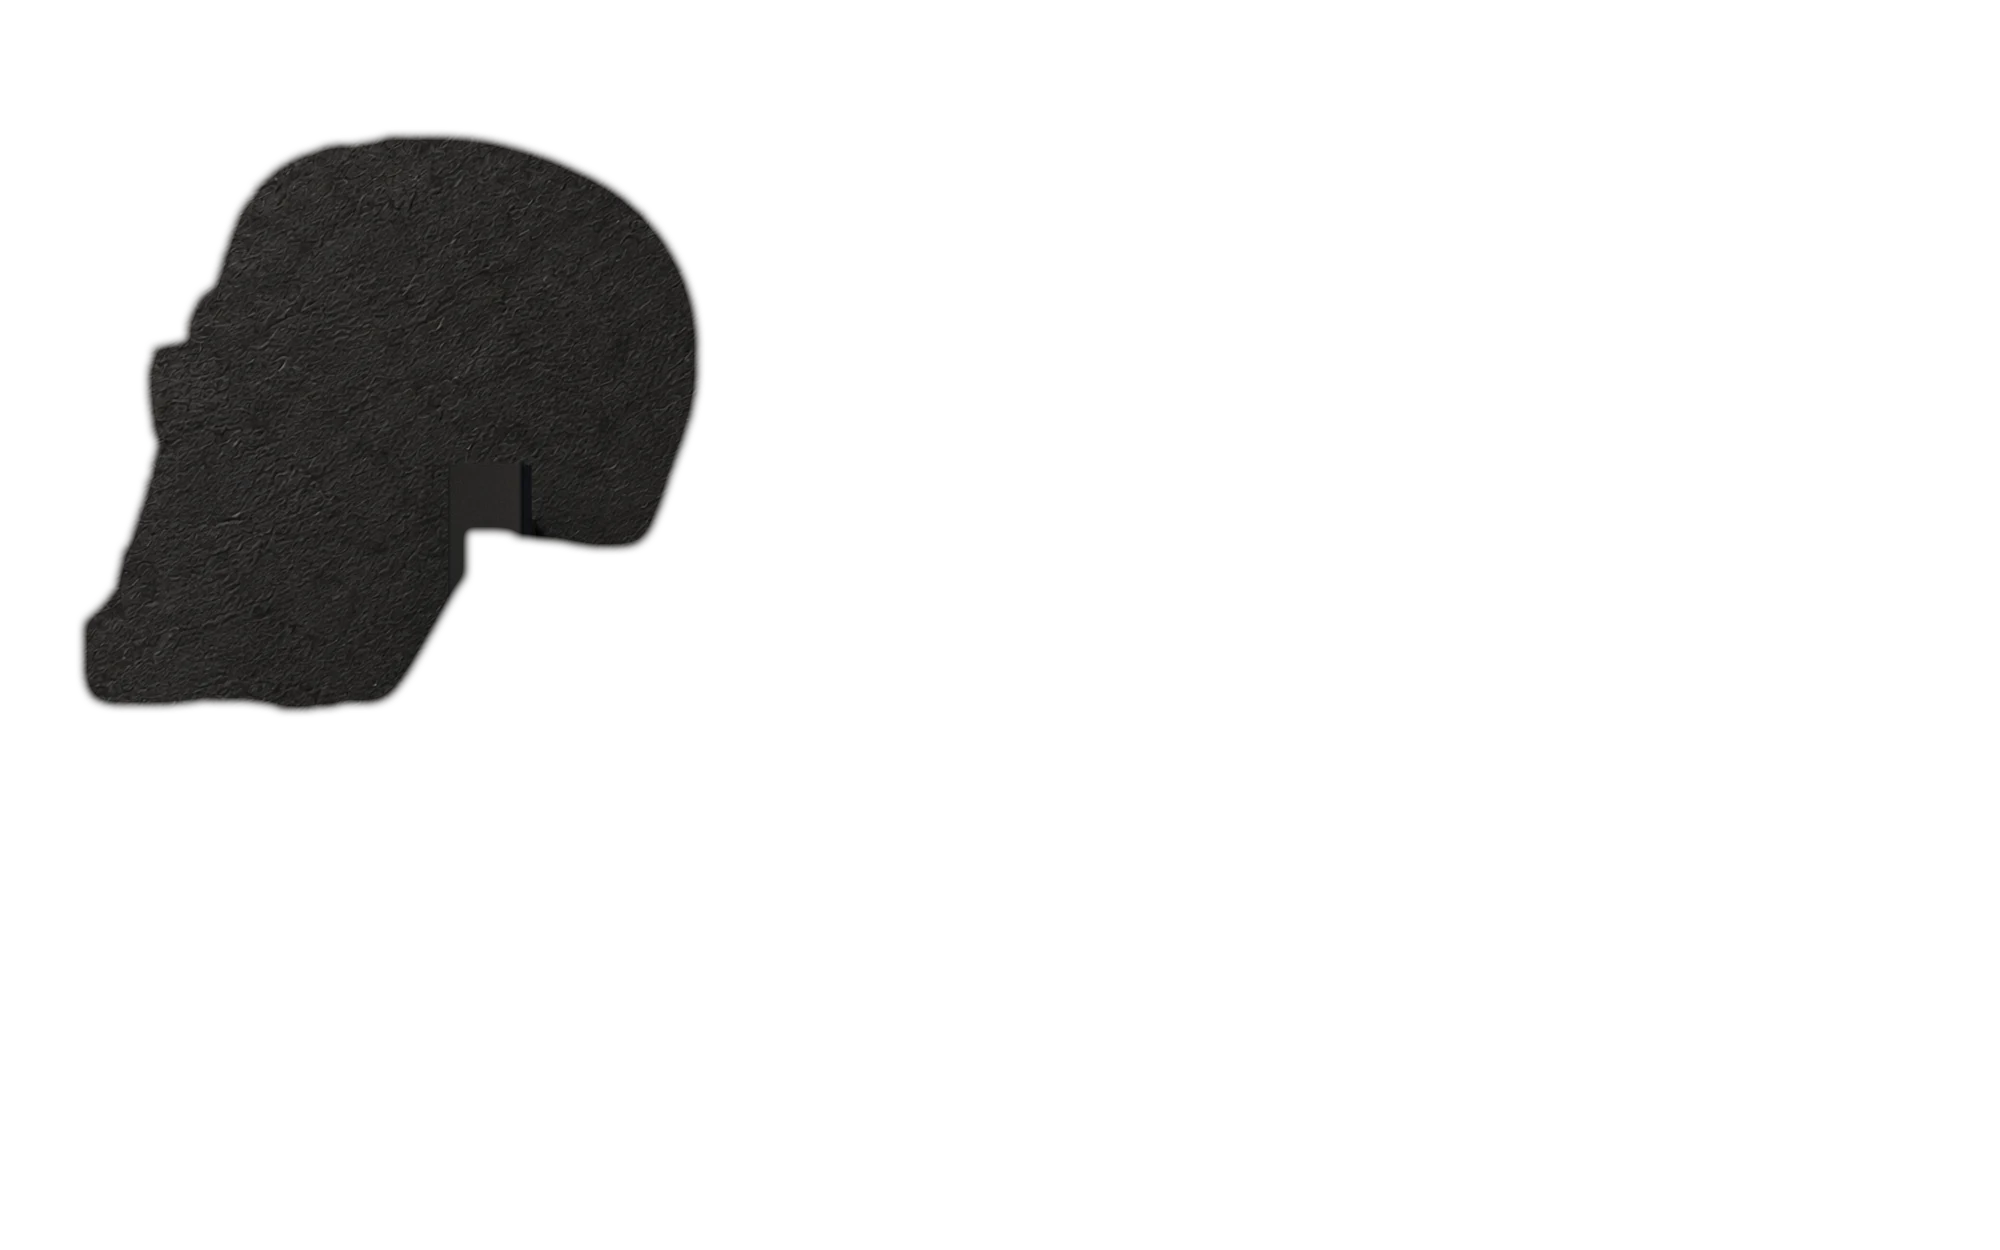
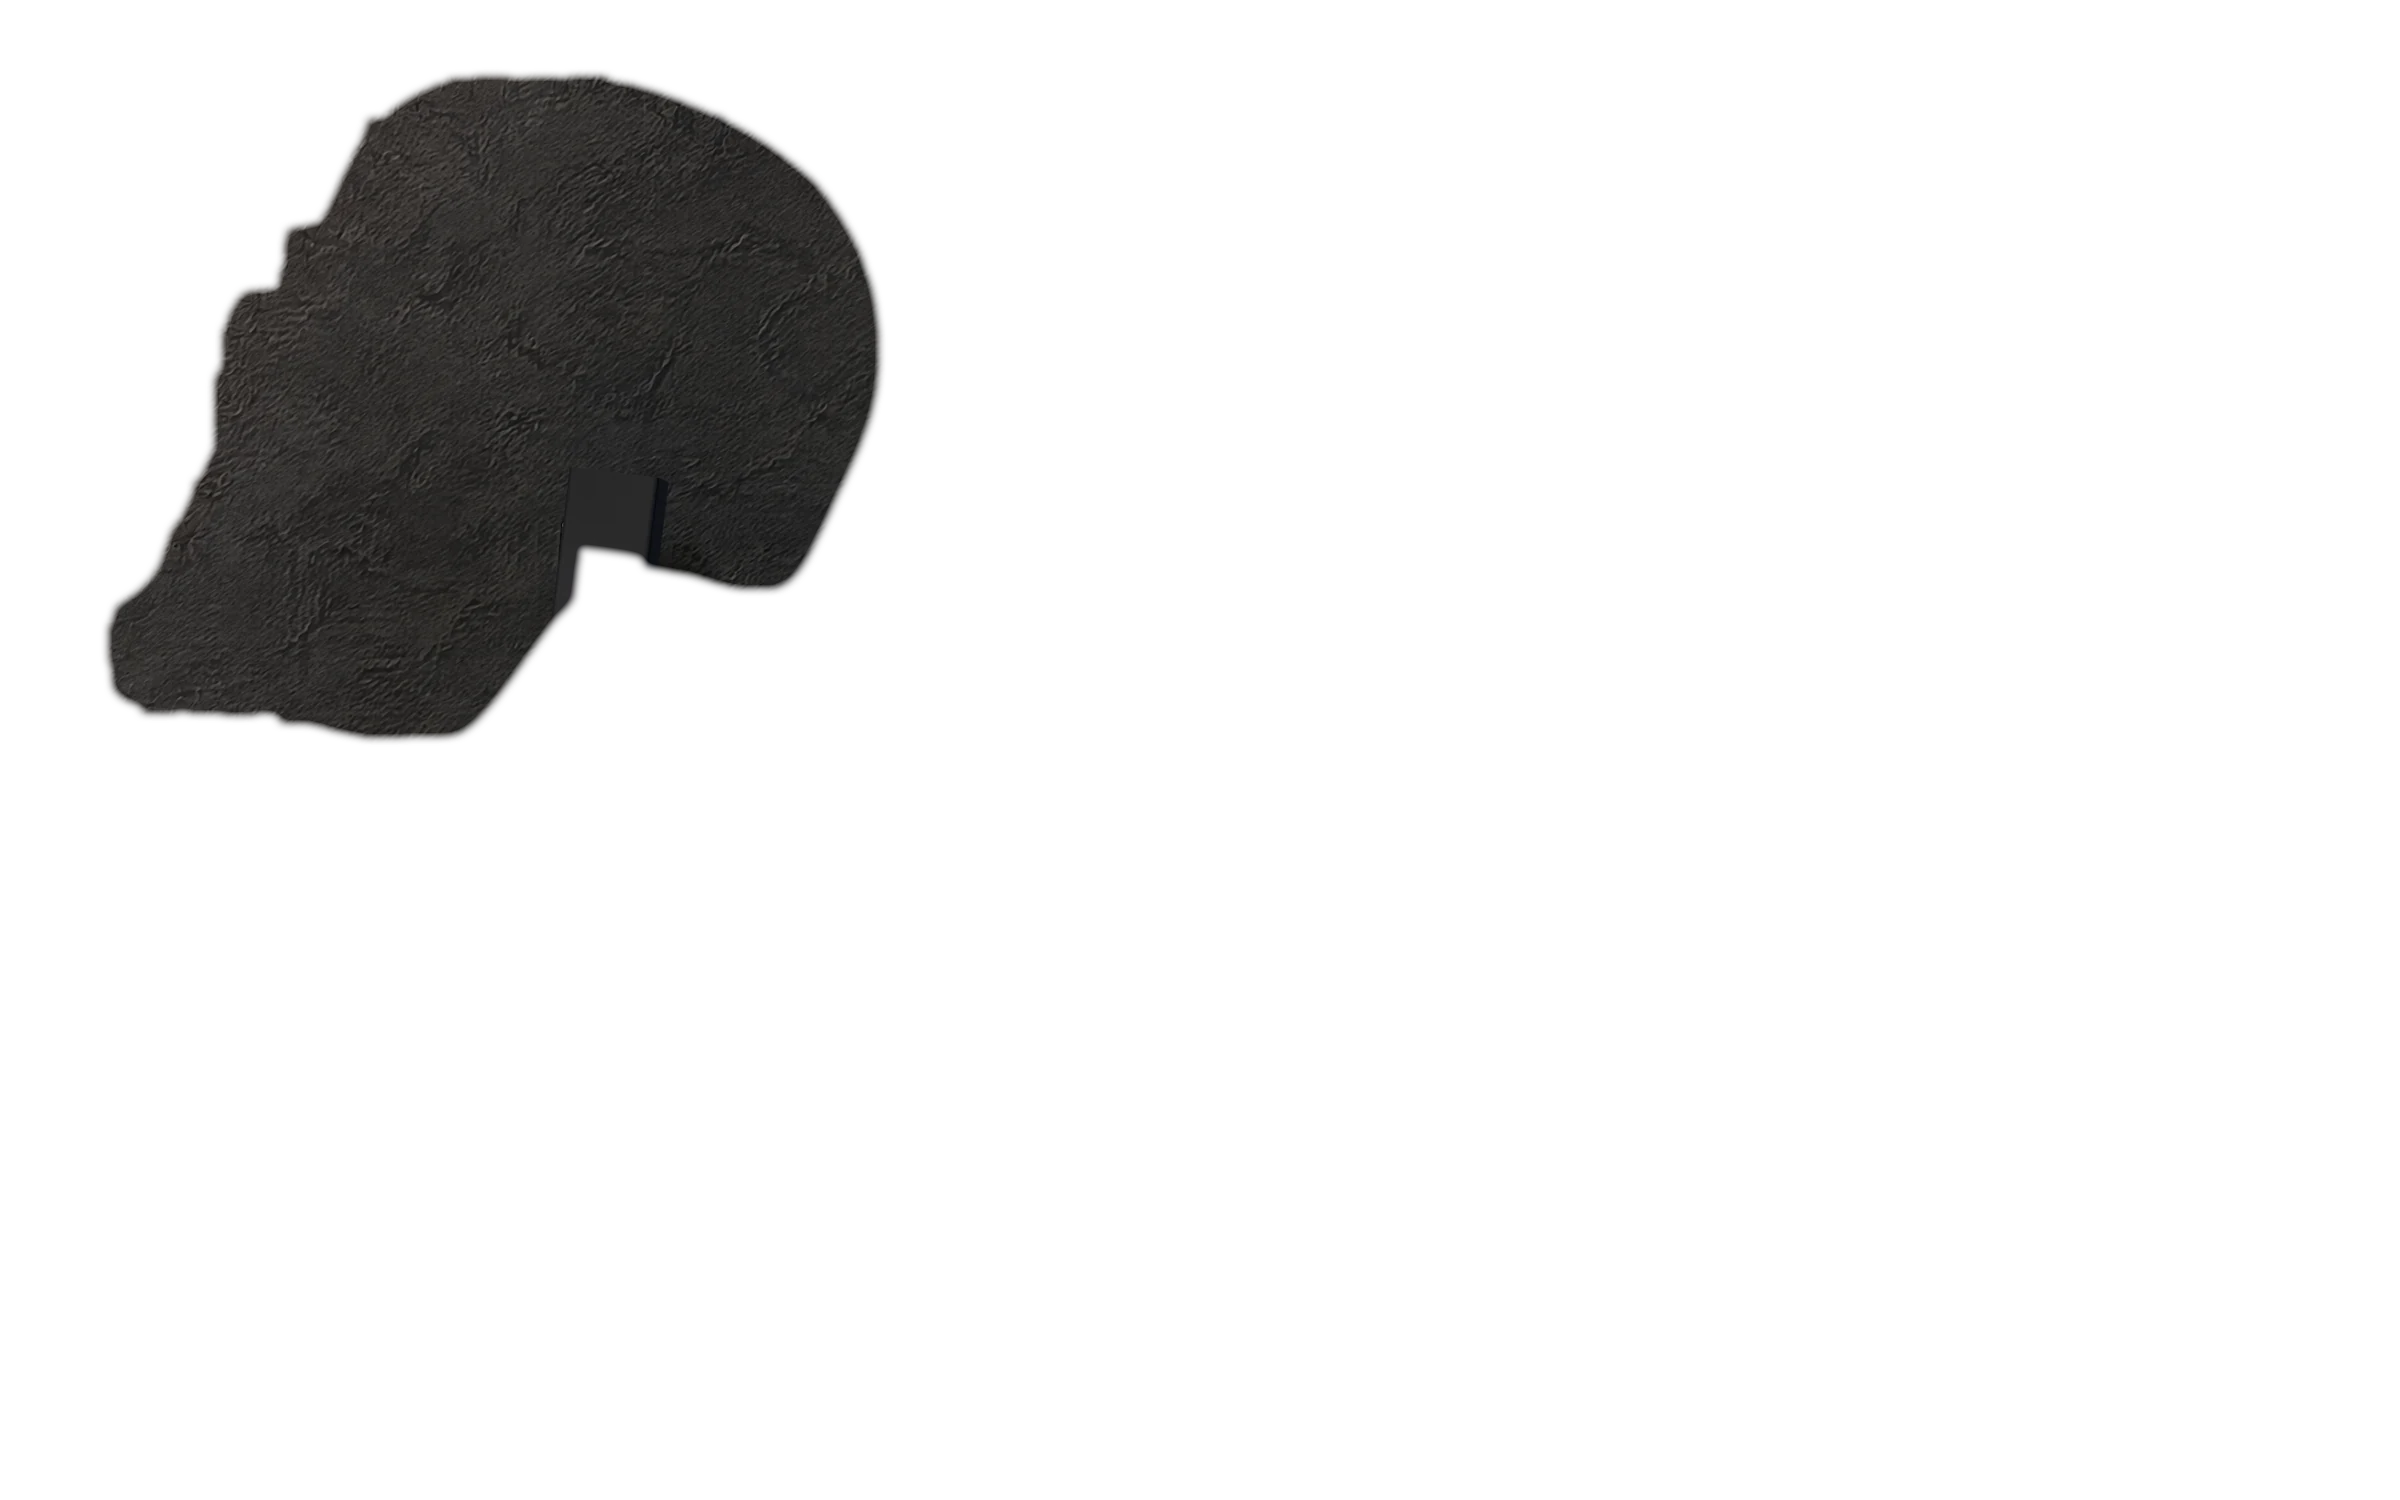
fix: the hero skull's route ends at The build, seated on the real mount
The box-contents flat lay is rebuilt at 4K: the owner's card and wall
template at full resolution, a box that reads as a mystery box, and the
mount lying turned 7 degrees face-up, as the 3D model is built. A dock can
now set its own nod (SkullDock `pitch`); this one, shot from straight above,
takes 0, so the landed skull sits on the post the photo shows.

Desktop's route ends here, as phones end at the lineup: the Next drop photo
is no longer a stop. Its plate stays one release for the build still serving.
The plate script matches a clean shot's exposure to the photo before using it.

Changed region(s): [[0.031, 0.156, 0.341, 0.5928], [0.124, 0.0312, 0.372, 0.3432]]

diff --git a/components/marketing/skull-journey.ts b/components/marketing/skull-journey.ts
@@ -67,6 +67,9 @@ const DIP = 0.14
  * the photographed one most closely here (0.927), less at 14° and at 22°,
  * and to the eye it is at 18° that the seated skull meets the camera as the
  * photograph does.
+ *
+ * A photo can set its own (SkullDock's `pitch`): the box-contents flat lay is
+ * shot from straight above, square to the skull's side, so it takes 0.
  */
 const DOCK_PITCH = 0.31
 
@@ -91,6 +94,8 @@ export type Anchor = {
   turn: number
   /** The photo's own skull stays hidden for the whole route, not just the landing. */
   hideOwn: boolean
+  /** How far the skull nods toward the camera seated here, radians (DOCK_PITCH unless the photo says). */
+  pitch: number
   /** The photographed skull's centre and height, document px. */
   cx: number
   cy: number
@@ -149,6 +154,7 @@ export function measureAnchors(rest: Silhouette = REST_SILHOUETTE): Anchor[] {
         home: true,
         turn: 0,
         hideOwn: false,
+        pitch: 0,
         cx: left + rect.width * rest.centreX,
         cy: top + rect.height * rest.centreY,
         h: rect.height * rest.height,
@@ -170,6 +176,8 @@ export function measureAnchors(rest: Silhouette = REST_SILHOUETTE): Anchor[] {
       home: false,
       turn: Number(el.dataset.skullTurn) || 0,
       hideOwn: el.hasAttribute("data-skull-hide-own"),
+      // A shot from straight above (a flat lay) has no "above eye level" to nod to.
+      pitch: el.dataset.skullPitch === undefined ? DOCK_PITCH : Number(el.dataset.skullPitch),
       cx: left + offsetX + ((x0 + x1) / 2) * scale,
       cy: top + offsetY + ((y0 + y1) / 2) * scale,
       h: (y1 - y0) * scale,
@@ -277,12 +285,14 @@ export function journey(anchors: Anchor[], scroll: number, vw: number, vh: numbe
   const plates = new Map<HTMLElement, number>()
   let clip: Box | null = null
   let nearest = 0
+  let seatPitch = DOCK_PITCH
   for (const a of anchors) {
     if (a.home || !a.clip) continue
     const w = proximity(cx, cy, a)
     plates.set(a.el, a.hideOwn ? 1 : w)
     if (w > nearest) {
       nearest = w
+      seatPitch = a.pitch
       // Relaxed away from the photo's edges as the skull leaves, so the crop
       // never slices it mid-air.
       const slack = (1 - w) * vh
@@ -295,5 +305,5 @@ export function journey(anchors: Anchor[], scroll: number, vw: number, vh: numbe
     }
   }
 
-  return { cx, cy, h, bob, spin, turn, pitch: DOCK_PITCH * nearest, clip, plates, docked: nearest }
+  return { cx, cy, h, bob, spin, turn, pitch: seatPitch * nearest, clip, plates, docked: nearest }
 }

diff --git a/components/marketing/skull-dock.tsx b/components/marketing/skull-dock.tsx
@@ -21,6 +21,10 @@ import DOCKS from "@/components/marketing/skull-docks.json"
  * turned from facing the camera, in radians, negative to face left. The mesh
  * lands turned the same way, and is sized by its silhouette at that angle.
  *
+ * `pitch` is how far the landed skull nods toward the camera, in radians: by
+ * default the 18° that matches photos taken from a little above eye level
+ * (skull-journey's DOCK_PITCH); 0 for a shot square to the skull's side.
+ *
  * `phone` keeps this stop on the route on phones, where the route ends at the
  * last such stop and every other dock is skipped (see skull-journey).
  *
@@ -36,12 +40,14 @@ export function SkullDock({
   src,
   sizes,
   turn,
+  pitch,
   phone,
   hideOwnSkull,
 }: {
   src: string
   sizes: string
   turn?: number
+  pitch?: number
   phone?: boolean
   hideOwnSkull?: boolean
 }) {
@@ -52,6 +58,7 @@ export function SkullDock({
     <div
       data-skull-dock={src}
       data-skull-turn={turn}
+      data-skull-pitch={pitch}
       data-skull-phone={phone ? "" : undefined}
       data-skull-hide-own={hideOwnSkull ? "" : undefined}
       className="pointer-events-none absolute inset-0"

diff --git a/components/marketing/anatomy.tsx b/components/marketing/anatomy.tsx
@@ -19,12 +19,17 @@ export function Anatomy() {
               sizes="(min-width: 1024px) 55vw, 92vw"
               className="object-cover"
             />
-            {/* The hero skull lands on the mount on its way down. The shot is a
-                profile facing left, so it lands turned a quarter to match. */}
+            {/* The hero skull's last stop on desktop (phones end at the lineup):
+                it lands on the mount here and stays. The shot is a
+                profile facing left, so it lands turned a quarter to match, and
+                it is taken from straight above, so the skull does not nod. The
+                mount lies turned 7° face-up, as the 3D model is built, so the
+                landed skull sits on its post exactly. */}
             <SkullDock
               src="/product/box-contents.jpg"
               sizes="(min-width: 1024px) 55vw, 92vw"
               turn={-Math.PI / 2}
+              pitch={0}
             />
           </div>
         </div>

diff --git a/components/marketing/drop-list.tsx b/components/marketing/drop-list.tsx
@@ -1,6 +1,5 @@
 import Image from "next/image"
 
-import { SkullDock } from "@/components/marketing/skull-dock"
 import { SectionLabel } from "@/components/shared/section-label"
 import { DropListForm } from "@/features/newsletter/components/drop-list-form"
 
@@ -15,8 +14,7 @@ export function DropList() {
           sizes="(min-width: 1024px) 50vw, 100vw"
           className="object-cover"
         />
-        {/* The hero skull's last stop: it lands on the blaze skull in the lineup. */}
-        <SkullDock src="/product/colourway-lineup.jpg" sizes="(min-width: 1024px) 50vw, 100vw" />
+        {/* No skull dock here: the hero skull's route ends at The build. */}
       </div>
       <div className="bg-carbon flex flex-col justify-center px-5 py-14 sm:px-8 sm:py-16 xl:px-14">
         <SectionLabel numbered tone="violet" className="mb-4">
